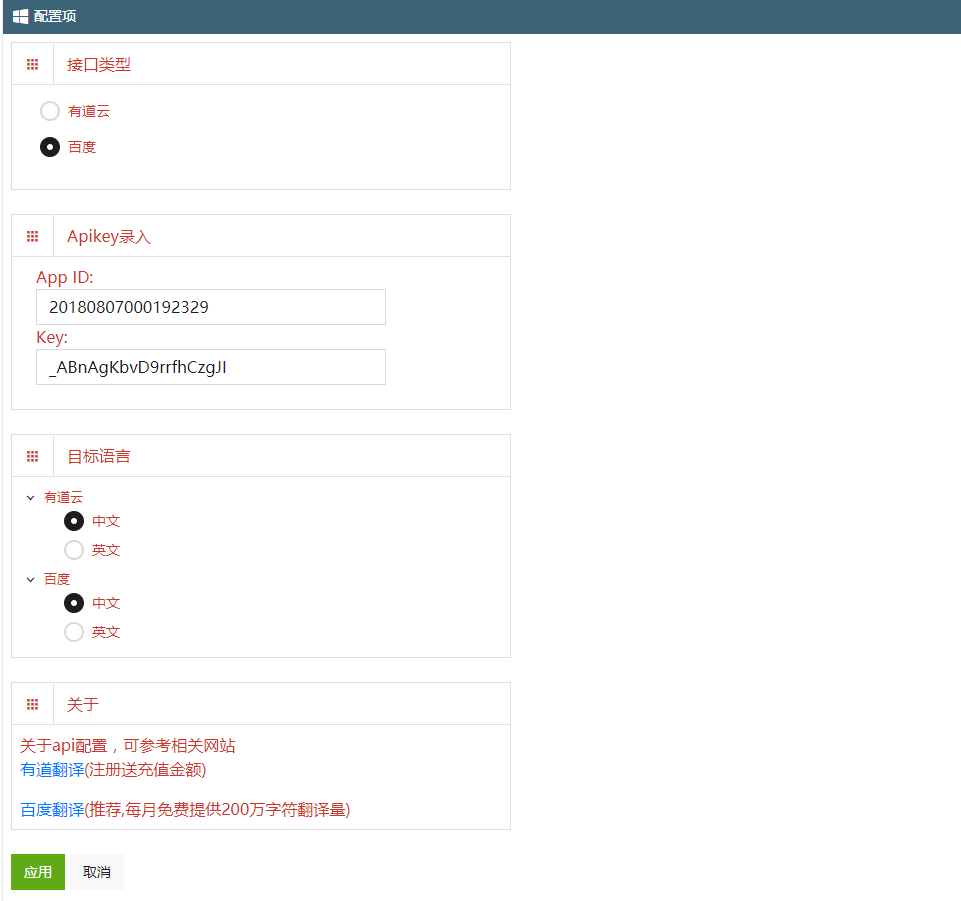
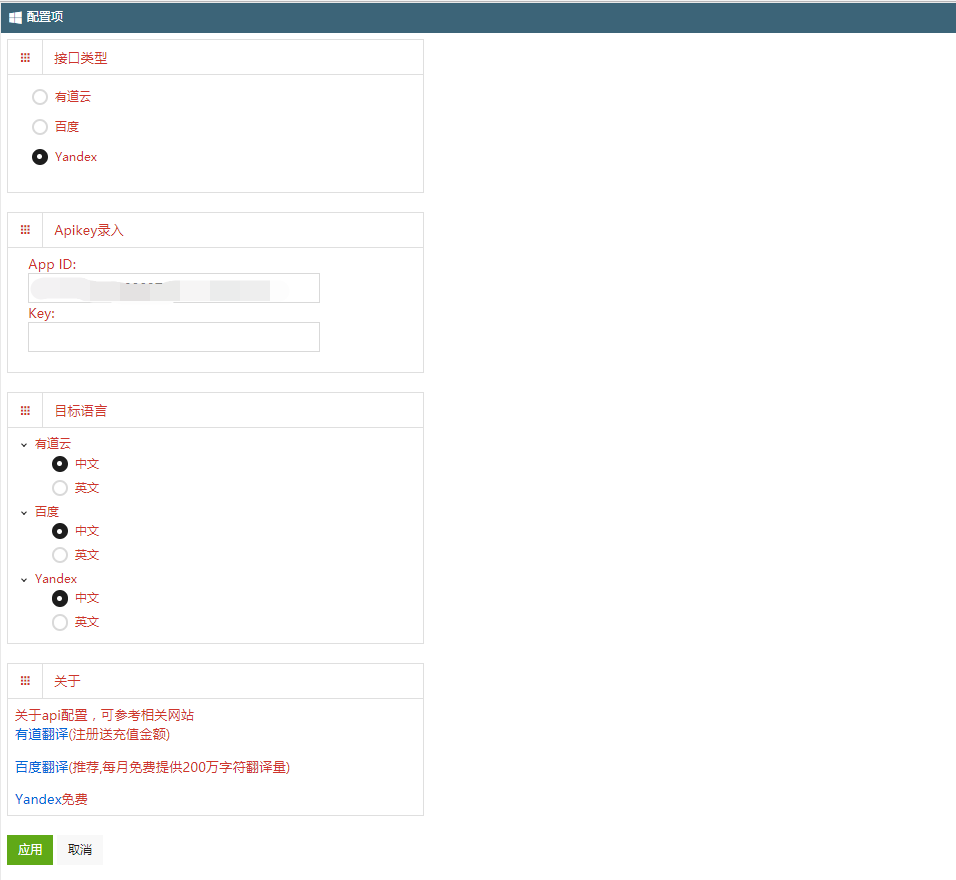
add yandex support

diff --git a/start.js b/start.js
@@ -87,6 +87,8 @@ function chooseApiSend(configInfo, apiKey, key, subtitle, md5) {
         youdaoSend(configInfo, apiKey, key, subtitle, md5);
     } else if (configInfo.apiType == 'baidu') {
         baiduSend(configInfo, apiKey, key, subtitle, md5);
+    }else if(configInfo.apiType == 'yandex'){
+        yandexSend(configInfo,apiKey,subtitle);
     }
 }
 
@@ -232,4 +234,65 @@ function baiduSend(configInfo, apiKey, key, subtitle) {
         }
     });
 
+}
+
+function yandexSend(configInfo,apiKey,subtitle){
+    var apiKey = apiKey;
+    var query = subtitle;
+    var to = configInfo.aimLang == 'undefined' ? 'zh' : configInfo.aimLang;
+
+    $.ajax({
+        url: 'https://translate.yandex.net/api/v1.5/tr.json/translate',
+        type: 'post',
+        dataType: 'json',
+        data: {
+            key: apiKey,
+            text:query,
+            lang:to
+        },
+        success: function (data) {
+            if (typeof data.text == "undefined") {
+                chrome.storage.sync.set({ currentState: 'off' }, function () {
+                    console.log('error,reset state')
+                });
+
+                return
+            }
+            let subtitle = typeof data.text == "undefined" ? '当前配置错误,或目标语言相同' : data.text[0]
+            // judge typeUrl
+            let typeUrl = window.location.href;
+            if (typeUrl.includes('udemy')) {
+                var wrapper = $('.vjs-ud-captions-display div').eq(1);
+                if (!wrapper.has('h2').length) {
+                    wrapper.append(`<div class="zh_sub" style="padding:0 5px 5px 5px;text-align:center;position:relative;top:-12px;background:#4F5155"><h2 style="text-shadow:0.07em 0.07em 0 rgba(0, 0, 0, 0.1);">${subtitle}</h2></div>`)
+                } else {
+                    wrapper.find('h2').text(subtitle)
+                }
+            }
+            if (typeUrl.includes('netflix')) {
+                var wrapper = $('.player-timedtext')
+                chrome.storage.sync.set({ netflixSubCache: wrapper.html() }, function () {
+                    console.log('saved')
+                });
+                if(wrapper.siblings(".zh_sub").length<1){
+                    wrapper.append(`<div class="zh_sub" 
+                    style="padding:0 8px 2px 8px;
+                    text-align:center;
+                    position:absolute;
+                    bottom:10%; 
+                    left: 50%;
+                    transform: translateX(-50%);
+                    background:#4F5155">
+                    <h2 style="text-shadow:0.07em 0.07em 0 rgba(0, 0, 0, 0.1);font-size:1.5rem;text-align:center">${subtitle}</h2></div>`)
+                }else{
+                    $('.zh_sub h2').text(subtitle);
+                }
+                console.log(subtitle);
+            }
+
+        },
+        error: function () {
+            alert('用户配置有误，或当前接口流量已达上限');
+        }
+    });
 }

diff --git a/options.html b/options.html
@@ -44,6 +44,9 @@
             <li>
               <input type="radio" name="apiType" data-role="radio" data-caption="百度" value="baidu" checked>
             </li>
+            <li>
+              <input type="radio" name="apiType" data-role="radio" data-caption="Yandex" value="yandex" >
+            </li>
           </ul>
 
         </div>
@@ -89,6 +92,16 @@
                 </li>
               </ul>
             </li>
+            <li class="expanded yandex" data-caption="Yandex">
+              <ul>
+                <li>
+                  <input type="radio" name="yandex" data-role="radio" data-caption="中文" value="zh" checked>
+                </li>
+                <li>
+                  <input type="radio" name="yandex" data-role="radio" data-caption="英文" value="en">
+                </li>
+              </ul>
+            </li>
           </ul>
         </div>
 
@@ -97,6 +110,7 @@
           关于api配置，可参考相关网站
           <p><a href="https://ai.youdao.com/index.s" target="_blank">有道翻译</a>(注册送充值金额)</p>
           <p><a href="https://fanyi-api.baidu.com/api/trans/product/desktop" target="_blank">百度翻译</a>(推荐,每月免费提供200万字符翻译量)</p>
+          <p><a href="https://translate.yandex.com/developers/keys" target="_blank">Yandex</a>免费</p>
         </div>
         <br>
         <button class="button success apply">应用</button>

diff --git a/options.js b/options.js
@@ -4,7 +4,7 @@
 window.onload = function () {
     let configInfoBefore = null;
     restore(configInfoBefore);
-  
+
     $('.apply').on('click', function (e) {
         e.stopPropagation();
         config();
@@ -27,6 +27,9 @@ function restore(configInfoBefore) {
         switch (configInfoBefore.apiType) {
             case 'baidu':
                 $('li.baidu').find('input[name=baidu][value=' + configInfoBefore.aimLang + ']').attr('checked', 'checked');
+                break;
+            case 'yandex':
+                $('li.yandex').find('input[name=yandex][value=' + configInfoBefore.aimLang + ']').attr('checked', 'checked');
                 break;
             default:
                 $('li.youdao').find('input[name=youdao][value=' + configInfoBefore.aimLang + ']').attr('checked', 'checked');

diff --git a/README.md b/README.md
@@ -15,6 +15,7 @@ Register links:
 
 [Youdao](https://ai.youdao.com/index.s)
 [Baidu](https://fanyi-api.baidu.com/api/trans/product/desktop)
+[Yandex](https://translate.yandex.com/developers/keys)
 
 
 
@@ -55,7 +56,7 @@ v1.0
 
 - [x] netflix video support
 
-- [] Yandex translate Api support
+- [x] Yandex translate Api support
 
 - [x] Youdao Cloud Api  support
 
@@ -68,6 +69,11 @@ v1.0
 - [] Multi-language support
 
 - [] Icon
+
+# PS：
+
+if you choose Yandex,you only nedd fill id.
+
 
 # Why
 

diff --git a/README_zh.md b/README_zh.md
@@ -16,6 +16,7 @@ Udemy translate
 
 [有道](https://ai.youdao.com/index.s)
 [百度](https://fanyi-api.baidu.com/api/trans/product/desktop)
+[Yandex](https://translate.yandex.com/developers/keys)
 
 
 
@@ -56,7 +57,7 @@ v1.0
 
 - [x] 奈飞视频字幕支持
 
-- [] Yandex 支持
+- [x] Yandex 支持
 
 - [x] 有道接口
 
@@ -69,6 +70,10 @@ v1.0
 - [x] 多语言支持
 
 - [] 当前应用图标
+  
+# 说明
+
+如果你选择的是Yandex,只需要配置id即可
 
 # 目的
 
